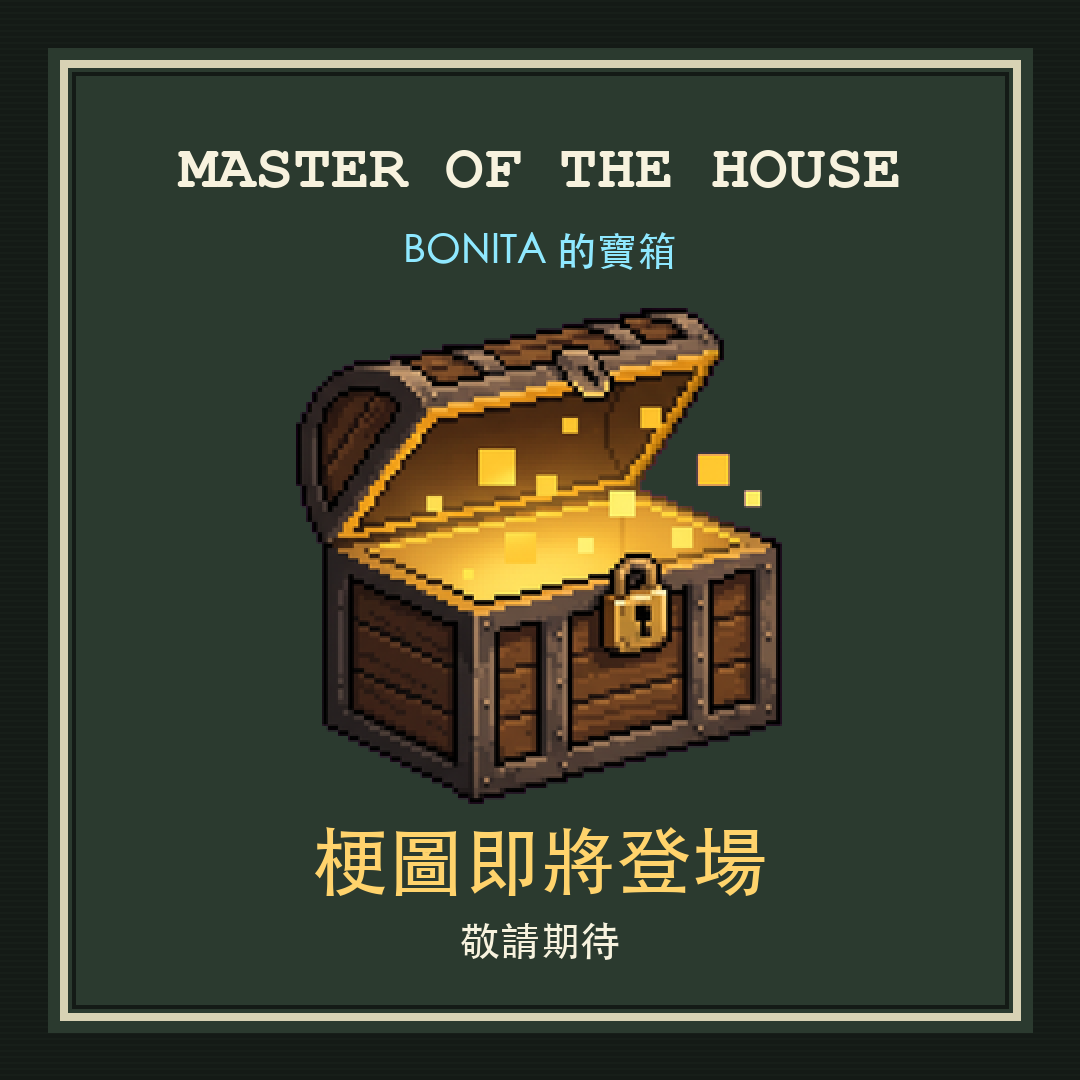
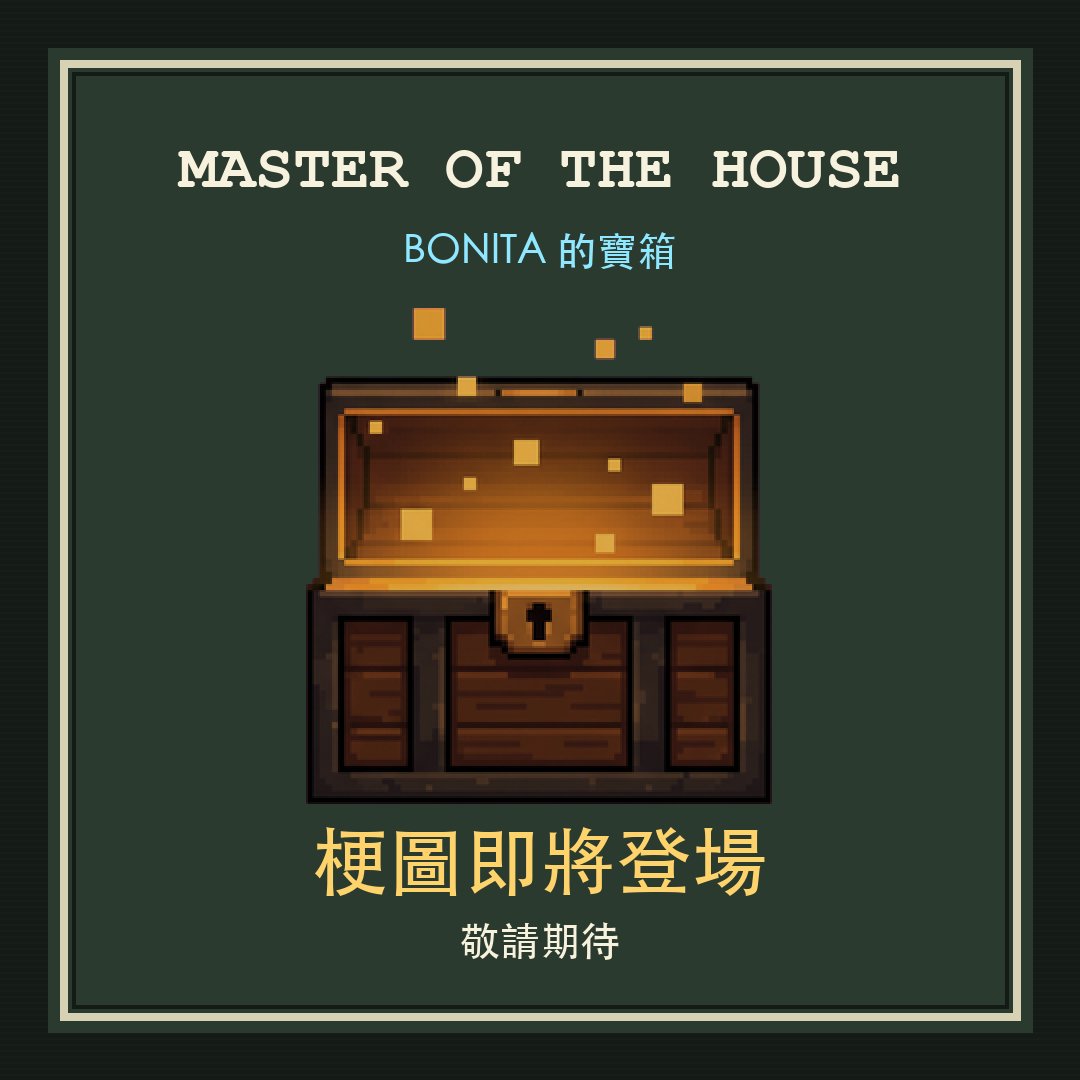
Flat basement chest; picture through the mirror; phone bar text centred
- The owner found the chest too big and floating. It is redrawn flat and
  front-on like the basement's crates (Nano Banana 2, the crates as a
  reference), about the red crate's size, warmed to the lamp light, and
  stands on the back wall's line under the lamp with a soft shadow.
- The picture inside it was fetched straight from Pages (slow from
  Taiwan). It is now read once through the hash-checked mirror as the
  chest comes into view, and that copy is shown and saved. The stand-in
  card shows the new chest.
- On phones the walking bar's line was centred on the screen, not in the
  bar beside 暫停.

Changed region(s): [[0.275, 0.275, 0.7333, 0.7639]]

diff --git a/docs/moth/src/game.js b/docs/moth/src/game.js
@@ -466,7 +466,7 @@ const HIT_SFX = {
   "arcade-miss": "assets/sfx/arcade-miss.wav"
 };
 const HIT_SFX_GAIN = 0.95;
-const MEME_CHEST = {"sheet":"assets/sprites/level4_meme_chest/sheet.webp","picture":"assets/memes/level4-meme.png","x":540,"size":128};
+const MEME_CHEST = {"sheet":"assets/sprites/level4_meme_chest/sheet.webp","picture":"assets/memes/level4-meme.png","x":450,"y":655,"size":67};
 const MENU_SFX = {"menu-tick":"assets/sfx/menu/menu-tick.wav","menu-click":"assets/sfx/menu/menu-click.wav"};
 // What an input asks for: arrows and the d-pad move a selection, O / Enter /
 // SPACE confirm, H / Esc go back.
@@ -3828,8 +3828,10 @@ for (const level of this.config.secretLevels || []) {
     }
   }
 
-  // Closed, with a glint on the lock now and then; lifting; open.
-  drawLevel4MemeChest(side) {
+  // Closed, with a glint on the lock now and then; lifting; open. A soft
+  // shadow sets it on the floor.
+  drawLevel4MemeChest() {
+    this.getMemePicture();
     const sheet = this.memeChestSheet;
     if (!sheet) return;
     const chest = this.memeChest || { state: "closed", at: 0 };
@@ -3837,10 +3839,30 @@ for (const level of this.config.secretLevels || []) {
     const frame = chest.state === "open" ? 3
       : chest.state === "opening" ? (time - chest.at < 0.22 ? 2 : 3)
       : time % 1.6 < 0.2 ? 1 : 0;
-    // Its front turned to Dr. Beauty, whichever side he is on.
-    const facing = (this.sewerPlayer?.x ?? MEME_CHEST.x + 1) >= MEME_CHEST.x ? 1 : -1;
-    drawBundleFrame(this.ctx, sheet, { frameWidth: 256, frameHeight: 256, cols: 2 }, frame, MEME_CHEST.x, side.floorY ?? 650,
-      MEME_CHEST.size, MEME_CHEST.size, { x: 0.5, y: 0.985 }, { facing });
+    const ctx = this.ctx;
+    ctx.save();
+    ctx.translate(MEME_CHEST.x, MEME_CHEST.y);
+    ctx.scale(1, 0.16);
+    const shadow = ctx.createRadialGradient(0, 0, 0, 0, 0, MEME_CHEST.size * 0.5);
+    shadow.addColorStop(0, "rgba(6, 4, 2, 0.55)");
+    shadow.addColorStop(1, "rgba(6, 4, 2, 0)");
+    ctx.fillStyle = shadow;
+    ctx.fillRect(-MEME_CHEST.size * 0.5, -MEME_CHEST.size * 0.5, MEME_CHEST.size, MEME_CHEST.size);
+    ctx.restore();
+    drawBundleFrame(ctx, sheet, { frameWidth: 256, frameHeight: 256, cols: 2 }, frame, MEME_CHEST.x, MEME_CHEST.y,
+      MEME_CHEST.size, MEME_CHEST.size, { x: 0.5, y: 252 / 256 });
+  }
+
+  // The picture, read once through the hash-checked mirror like the game's
+  // other files (this site's copy if that fails), from when the chest comes
+  // into view: Pages is slow from Taiwan. One copy is shown and shared, as
+  // iPhone shares only a file already in hand when 儲存 is tapped.
+  getMemePicture() {
+    this.memePicture ||= fetchGameAsset(MEME_CHEST.picture).then(({ data, type }) => {
+      const file = new File([data], "dr-beauty-meme.png", { type: type.startsWith("image/") ? type : "image/png" });
+      return { file, url: URL.createObjectURL(file) };
+    }).catch(() => null);
+    return this.memePicture;
   }
 
   showMeme() {
@@ -3850,7 +3872,7 @@ for (const level of this.config.secretLevels || []) {
     root.setAttribute("role", "dialog");
     root.setAttribute("aria-modal", "true");
     const phone = this.usesTouchControls();
-    root.innerHTML = `<section><h2>${this.tr("BONITA'S CHEST", "BONITA 的寶箱")}</h2><img alt="" src="${MEME_CHEST.picture}">`
+    root.innerHTML = `<section><h2>${this.tr("BONITA'S CHEST", "BONITA 的寶箱")}</h2><img alt="">`
       + (phone ? `<p>${this.tr("Or press and hold the picture to save it.", "也可以長按圖片儲存。")}</p>` : "")
       + `<div class="moth-meme-actions"><button type="button" data-meme-save>${this.tr("SAVE", "儲存")}</button><button type="button" data-meme-close>${this.tr("CLOSE", "關閉")}</button></div></section>`;
     // Its taps are its own, as the scoreboard's are.
@@ -3859,9 +3881,11 @@ for (const level of this.config.secretLevels || []) {
     root.querySelector("[data-meme-close]").addEventListener("click", () => this.closeMeme());
     document.body.append(root);
     const view = this.memeView = { root, file: null };
-    // Read ahead of the tap: iPhone shares only from inside the tap itself.
-    fetch(MEME_CHEST.picture).then(response => response.blob())
-      .then(blob => { view.file = new File([blob], "dr-beauty-meme.png", { type: blob.type || "image/png" }); }).catch(() => {});
+    const image = root.querySelector("img");
+    this.getMemePicture().then(picture => {
+      view.file = picture?.file || null;
+      image.src = picture?.url || MEME_CHEST.picture;
+    });
     root.querySelector("[data-meme-save]").focus({ preventScroll: true });
     this.releaseHeldInputs?.();
     this.updateMobileControls(true);
@@ -11051,7 +11075,7 @@ for (const level of this.config.secretLevels || []) {
       target.fillStyle = "#f7f2de";
       target.textAlign = "center";
       target.textBaseline = "middle";
-      drawFittedText(target, String(prompt.text), PORTRAIT_FIGHT.width / 2, y + h / 2 + 1, w - 28, 24, 900, 13);
+      drawFittedText(target, String(prompt.text), x + w / 2, y + h / 2 + 1, w - 28, 24, 900, 13);
       target.restore();
     }
   }
@@ -23006,7 +23030,7 @@ for (const level of this.config.secretLevels || []) {
       });
     }
     if (this.level4Rail === "lower" && this.hasLevel4MemeChest()) {
-      drawables.push({ y: (side.floorY ?? 650) - 1, draw: () => this.drawLevel4MemeChest(side) });
+      drawables.push({ y: (side.floorY ?? 650) - 1, draw: () => this.drawLevel4MemeChest() });
     }
     drawables.push({
       y: bobby.y,

diff --git a/docs/moth/staff/game.js b/docs/moth/staff/game.js
@@ -463,7 +463,7 @@ const HIT_SFX = {
   "arcade-miss": "assets/sfx/arcade-miss.wav"
 };
 const HIT_SFX_GAIN = 0.95;
-const MEME_CHEST = {"sheet":"assets/sprites/level4_meme_chest/sheet.webp","picture":"assets/memes/level4-meme.png","x":540,"size":128};
+const MEME_CHEST = {"sheet":"assets/sprites/level4_meme_chest/sheet.webp","picture":"assets/memes/level4-meme.png","x":450,"y":655,"size":67};
 const MENU_SFX = {"menu-tick":"assets/sfx/menu/menu-tick.wav","menu-click":"assets/sfx/menu/menu-click.wav"};
 // What an input asks for: arrows and the d-pad move a selection, O / Enter /
 // SPACE confirm, H / Esc go back.
@@ -3938,8 +3938,10 @@ for (const level of this.config.secretLevels || []) {
     }
   }
 
-  // Closed, with a glint on the lock now and then; lifting; open.
-  drawLevel4MemeChest(side) {
+  // Closed, with a glint on the lock now and then; lifting; open. A soft
+  // shadow sets it on the floor.
+  drawLevel4MemeChest() {
+    this.getMemePicture();
     const sheet = this.memeChestSheet;
     if (!sheet) return;
     const chest = this.memeChest || { state: "closed", at: 0 };
@@ -3947,10 +3949,30 @@ for (const level of this.config.secretLevels || []) {
     const frame = chest.state === "open" ? 3
       : chest.state === "opening" ? (time - chest.at < 0.22 ? 2 : 3)
       : time % 1.6 < 0.2 ? 1 : 0;
-    // Its front turned to Dr. Beauty, whichever side he is on.
-    const facing = (this.sewerPlayer?.x ?? MEME_CHEST.x + 1) >= MEME_CHEST.x ? 1 : -1;
-    drawBundleFrame(this.ctx, sheet, { frameWidth: 256, frameHeight: 256, cols: 2 }, frame, MEME_CHEST.x, side.floorY ?? 650,
-      MEME_CHEST.size, MEME_CHEST.size, { x: 0.5, y: 0.985 }, { facing });
+    const ctx = this.ctx;
+    ctx.save();
+    ctx.translate(MEME_CHEST.x, MEME_CHEST.y);
+    ctx.scale(1, 0.16);
+    const shadow = ctx.createRadialGradient(0, 0, 0, 0, 0, MEME_CHEST.size * 0.5);
+    shadow.addColorStop(0, "rgba(6, 4, 2, 0.55)");
+    shadow.addColorStop(1, "rgba(6, 4, 2, 0)");
+    ctx.fillStyle = shadow;
+    ctx.fillRect(-MEME_CHEST.size * 0.5, -MEME_CHEST.size * 0.5, MEME_CHEST.size, MEME_CHEST.size);
+    ctx.restore();
+    drawBundleFrame(ctx, sheet, { frameWidth: 256, frameHeight: 256, cols: 2 }, frame, MEME_CHEST.x, MEME_CHEST.y,
+      MEME_CHEST.size, MEME_CHEST.size, { x: 0.5, y: 252 / 256 });
+  }
+
+  // The picture, read once through the hash-checked mirror like the game's
+  // other files (this site's copy if that fails), from when the chest comes
+  // into view: Pages is slow from Taiwan. One copy is shown and shared, as
+  // iPhone shares only a file already in hand when 儲存 is tapped.
+  getMemePicture() {
+    this.memePicture ||= fetchGameAsset(MEME_CHEST.picture).then(({ data, type }) => {
+      const file = new File([data], "dr-beauty-meme.png", { type: type.startsWith("image/") ? type : "image/png" });
+      return { file, url: URL.createObjectURL(file) };
+    }).catch(() => null);
+    return this.memePicture;
   }
 
   showMeme() {
@@ -3960,7 +3982,7 @@ for (const level of this.config.secretLevels || []) {
     root.setAttribute("role", "dialog");
     root.setAttribute("aria-modal", "true");
     const phone = this.usesTouchControls();
-    root.innerHTML = `<section><h2>${this.tr("BONITA'S CHEST", "BONITA 的寶箱")}</h2><img alt="" src="${MEME_CHEST.picture}">`
+    root.innerHTML = `<section><h2>${this.tr("BONITA'S CHEST", "BONITA 的寶箱")}</h2><img alt="">`
       + (phone ? `<p>${this.tr("Or press and hold the picture to save it.", "也可以長按圖片儲存。")}</p>` : "")
       + `<div class="moth-meme-actions"><button type="button" data-meme-save>${this.tr("SAVE", "儲存")}</button><button type="button" data-meme-close>${this.tr("CLOSE", "關閉")}</button></div></section>`;
     // Its taps are its own, as the scoreboard's are.
@@ -3969,9 +3991,11 @@ for (const level of this.config.secretLevels || []) {
     root.querySelector("[data-meme-close]").addEventListener("click", () => this.closeMeme());
     document.body.append(root);
     const view = this.memeView = { root, file: null };
-    // Read ahead of the tap: iPhone shares only from inside the tap itself.
-    fetch(MEME_CHEST.picture).then(response => response.blob())
-      .then(blob => { view.file = new File([blob], "dr-beauty-meme.png", { type: blob.type || "image/png" }); }).catch(() => {});
+    const image = root.querySelector("img");
+    this.getMemePicture().then(picture => {
+      view.file = picture?.file || null;
+      image.src = picture?.url || MEME_CHEST.picture;
+    });
     root.querySelector("[data-meme-save]").focus({ preventScroll: true });
     this.releaseHeldInputs?.();
     this.updateMobileControls(true);
@@ -11924,7 +11948,7 @@ for (const level of this.config.secretLevels || []) {
       target.fillStyle = "#f7f2de";
       target.textAlign = "center";
       target.textBaseline = "middle";
-      drawFittedText(target, String(prompt.text), PORTRAIT_FIGHT.width / 2, y + h / 2 + 1, w - 28, 24, 900, 13);
+      drawFittedText(target, String(prompt.text), x + w / 2, y + h / 2 + 1, w - 28, 24, 900, 13);
       target.restore();
     }
   }
@@ -23879,7 +23903,7 @@ for (const level of this.config.secretLevels || []) {
       });
     }
     if (this.level4Rail === "lower" && this.hasLevel4MemeChest()) {
-      drawables.push({ y: (side.floorY ?? 650) - 1, draw: () => this.drawLevel4MemeChest(side) });
+      drawables.push({ y: (side.floorY ?? 650) - 1, draw: () => this.drawLevel4MemeChest() });
     }
     drawables.push({
       y: bobby.y,

diff --git a/docs/moth/index.html b/docs/moth/index.html
@@ -15,7 +15,7 @@
     <meta name="mobile-web-app-capable" content="yes" />
     <meta name="apple-mobile-web-app-status-bar-style" content="black-translucent" />
     <meta name="apple-mobile-web-app-title" content="MASTER OF THE HOUSE" />
-    <link rel="stylesheet" href="./styles.css?v=moth-loading-20261018a" />
+    <link rel="stylesheet" href="./styles.css?v=moth-loading-20261018b" />
   </head>
   <body>
     <main class="game-shell" aria-label="Master of the House game">
@@ -24,6 +24,6 @@
       <noscript style="position:absolute;top:24px;left:24px;color:#f7f2de;font-family:monospace">JavaScript is required to play MASTER OF THE HOUSE.</noscript>
     </main>
     <script src="./src/arcade-embed.js?v=moth-arcade-input-20261014a" integrity="sha384-HKTc1/MYYJgo3wtUJH4gyAN5muR3kS3Ws1Cvm2HQHvTHmrAzMD/u9uZ28L3LlOKF" crossorigin="anonymous"></script>
-    <script src="./src/game.js?v=moth-cabinet-20261018a" integrity="sha384-NxsW88bm9H8STKLGDjjDtavc/mCLlvgFoGOs3hV2xyC6Katpxw3BqSU4MtMRtCWT" crossorigin="anonymous"></script>
+    <script src="./src/game.js?v=moth-cabinet-20261018b" integrity="sha384-9SQ9/HNRUWW3O36E6lfZWhaY8lbJIGELnJPJQs881zLq3/jIXlCXVMA8nZGPBKh3" crossorigin="anonymous"></script>
   </body>
 </html>

diff --git a/docs/moth/staff/index.html b/docs/moth/staff/index.html
@@ -17,7 +17,7 @@
     <meta name="mobile-web-app-capable" content="yes" />
     <meta name="apple-mobile-web-app-status-bar-style" content="black-translucent" />
     <meta name="apple-mobile-web-app-title" content="MASTER OF THE HOUSE" />
-    <link rel="stylesheet" href="./styles.css?v=moth-loading-20261018a" />
+    <link rel="stylesheet" href="./styles.css?v=moth-loading-20261018b" />
   </head>
   <body>
     <main class="game-shell" aria-label="Master of the House game">
@@ -25,6 +25,6 @@
       <div class="film-grain-overlay" aria-hidden="true"></div>
       <noscript style="position:absolute;top:24px;left:24px;color:#f7f2de;font-family:monospace">JavaScript is required to play MASTER OF THE HOUSE.</noscript>
     </main>
-    <script src="/moth/staff/game.js?v=moth-loading-20261018a" integrity="sha384-RqLpN0EswC9iF4Sl0Us0nTXiiy8bEA8Crlk0f4hUHufHz1M1fceKZNm95bPaxyZt" crossorigin="anonymous"></script>
+    <script src="/moth/staff/game.js?v=moth-loading-20261018b" integrity="sha384-ErY1Po5H+rXM0ZcNpi+YJWBRoFbAjzwpWhl167ksQ84SDgIUT1xkIN3czRz9bQ6l" crossorigin="anonymous"></script>
   </body>
 </html>

diff --git a/scripts/make-meme-chest.py b/scripts/make-meme-chest.py
@@ -2,19 +2,21 @@
 
 usage: python3 scripts/make-meme-chest.py <generated 2x2 sheet.png>
 
-The owner asked for a new chest in the game's art style, facing Dr. Beauty
-(2026-10-18). The artwork was generated with Nano Banana 2 from two references,
-the level 4 basement and the release's old wall chest, as a 2x2 sheet on flat
-magenta: closed, a glint on the lock, the lid opening, open with gold
-sparkles; the chest's front faces right, the way Dr. Beauty comes down the
-ladder. This cuts the four frames apart (dropping the lines between them),
-keys out the magenta, puts all four on one footing (the same crop, the base on
-the same line) and scales them into 256-pixel frames, as the release's chests
-are.
+The owner asked for a new chest in the game's art style (2026-10-18), then for
+it flat and 2D, the size of the basement's red crate and standing with the
+crates against the back wall. The artwork was generated with Nano Banana 2 from
+the basement and a close-up of its crates as references, as a 2x2 sheet on flat
+magenta: closed, a glint on the lock, the lid tipping back, open with gold
+sparkles, all seen straight from the front as the crates are. This cuts the
+four frames apart (dropping the lines between them), keys out the magenta,
+lines each frame up by the base of its chest (the model does not keep the box
+still from cell to cell), scales them alike and sets them in 256-pixel frames,
+as the release's chests are, the base 4 pixels above each frame's bottom.
 
 Writes moth-asset-additions/assets/sprites/level4_meme_chest/sheet.webp
-(lossless) and prints its hash; update moth-asset-additions/manifest.json from
-it. Needs numpy and Pillow.
+(lossless) and prints its hash and the closed chest's height in a frame; the
+game sizes the chest from that height (MEME_CHEST in moth-walk-scenes.mjs).
+Update moth-asset-additions/manifest.json from the hash. Needs numpy and Pillow.
 """
 import hashlib
 import os
@@ -26,6 +28,7 @@ from PIL import Image
 ROOT = os.path.dirname(os.path.dirname(os.path.abspath(__file__)))
 OUT = 'assets/sprites/level4_meme_chest/sheet.webp'
 FRAME = 256
+GRADE = (0.86, 0.72, 0.5)
 
 
 def keyed(cell):
@@ -42,33 +45,58 @@ def keyed(cell):
     return np.dstack([rgb, alpha * 255])
 
 
+def tidied(cell):
+    """The cell's chest alone, and its base line: a sparkle can cross the line
+    between cells, so whatever lies below the box or against the cell's top
+    edge is dropped. The base is the box's last full row."""
+    counts = (cell[..., 3] > 0).sum(axis=1)
+    base = np.where(counts > counts.max() * 0.2)[0].max()
+    cell[base + 1:, :, 3] = 0
+    cell[:cell.shape[0] // 32, :, 3] = 0
+    return cell, base
+
+
 def main():
     raw = np.asarray(Image.open(sys.argv[1]).convert('RGB'))
     size = raw.shape[0] // 2
     margin = size // 64
     cells = [keyed(raw[y + margin:y + size - margin, x + margin:x + size - margin])
              for y in (0, size) for x in (0, size)]
-    # One crop for all four, so the chest stands still from frame to frame.
-    seen = np.any([cell[..., 3] > 0 for cell in cells], axis=0)
-    rows, cols = np.where(seen)
-    top, bottom, left, right = rows.min(), rows.max() + 1, cols.min(), cols.max() + 1
-    width, height = right - left, bottom - top
-    scale = (FRAME - 8) / max(width, height)
-    w, h = round(width * scale), round(height * scale)
-    sheet = Image.new('RGBA', (FRAME * 2, FRAME * 2), (0, 0, 0, 0))
+    # Each chest's base line, and its middle across the bottom of the box (the
+    # sparkles above an open chest do not move it).
+    marks = []
     for index, cell in enumerate(cells):
-        art = Image.fromarray(np.round(cell[top:bottom, left:right]).astype(np.uint8))
-        art = art.resize((w, h), Image.LANCZOS)
-        # Feet on the frame's bottom edge, centred across it.
+        cell, base = tidied(cell)
+        cells[index] = cell
+        rows, cols = np.where(cell[..., 3] > 0)
+        low = cols[rows >= base - size // 8]
+        marks.append((base, (low.min() + low.max()) / 2, rows.min(), cols.min(), cols.max()))
+    left = min(c0 - mid for base, mid, top, c0, c1 in marks)
+    right = max(c1 + 1 - mid for base, mid, top, c0, c1 in marks)
+    height = max(base + 1 - top for base, mid, top, c0, c1 in marks)
+    scale = (FRAME - 8) / max(right - left, height)
+    w, h = round((right - left) * scale), round(height * scale)
+    sheet = Image.new('RGBA', (FRAME * 2, FRAME * 2), (0, 0, 0, 0))
+    for index, (cell, (base, mid, top, c0, c1)) in enumerate(zip(cells, marks)):
+        # The same box around every chest, from its base and middle.
+        box = np.zeros((height, int(right - left), 4))
+        y0, x0 = base + 1 - height, int(round(mid + left))
+        sy0, sx0 = max(0, y0), max(0, x0)
+        sy1, sx1 = min(cell.shape[0], base + 1), min(cell.shape[1], x0 + box.shape[1])
+        box[sy0 - y0:sy1 - y0, sx0 - x0:sx1 - x0] = cell[sy0:sy1, sx0:sx1]
+        art = Image.fromarray(np.round(box).astype(np.uint8)).resize((w, h), Image.LANCZOS)
         sheet.alpha_composite(art, ((index % 2) * FRAME + (FRAME - w) // 2, (index // 2) * FRAME + FRAME - 4 - h))
     pixels = np.asarray(sheet).copy()
     pixels[pixels[..., 3] < 16] = 0
+    # Into the basement's lamp light: the model's iron bands come out cool
+    # and purple beside the room's warm browns.
+    pixels[..., :3] = np.clip(pixels[..., :3] * np.array(GRADE), 0, 255).round()
     path = os.path.join(ROOT, 'moth-asset-additions', OUT)
     os.makedirs(os.path.dirname(path), exist_ok=True)
     Image.fromarray(pixels).save(path, 'WEBP', lossless=True, quality=100, method=6, exact=True)
     data = open(path, 'rb').read()
-    print(OUT, len(data), hashlib.sha256(data).hexdigest(), 'art', w, h)
-
+    closed = round((marks[0][0] + 1 - marks[0][2]) * scale)
+    print(OUT, len(data), hashlib.sha256(data).hexdigest(), 'art', w, h, 'closed chest height', closed)
 
 if __name__ == '__main__':
     main()
